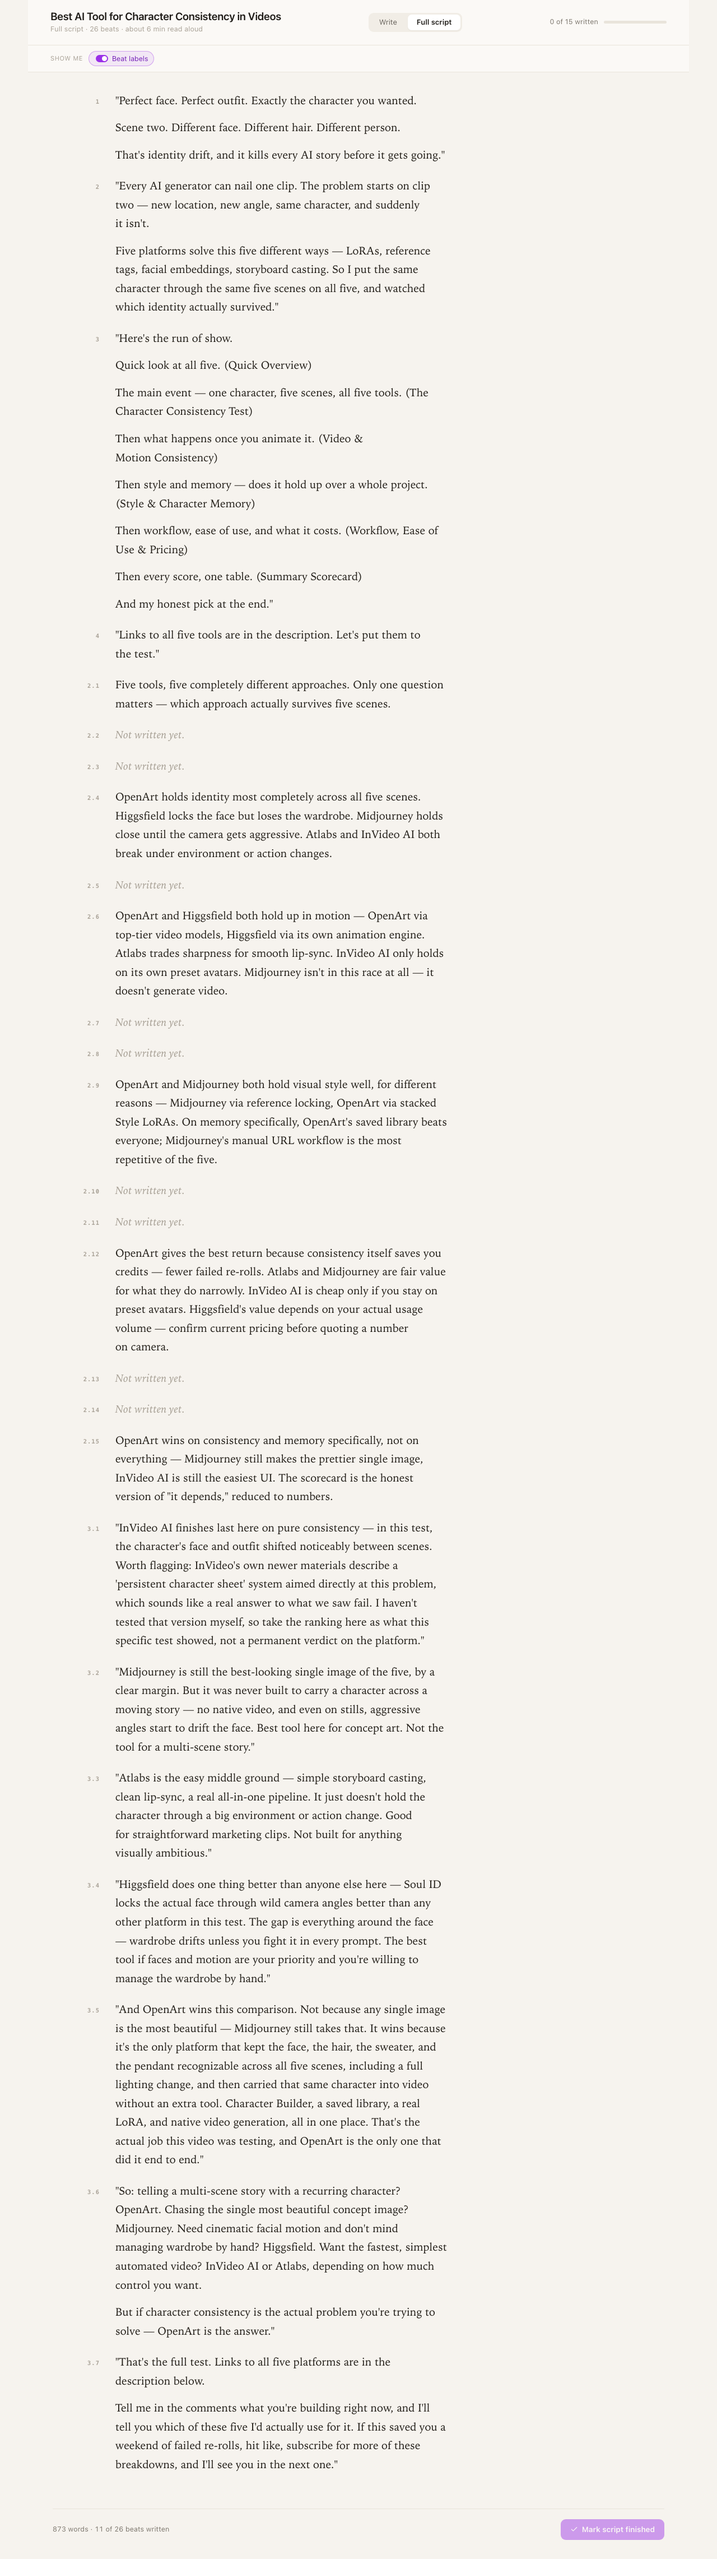
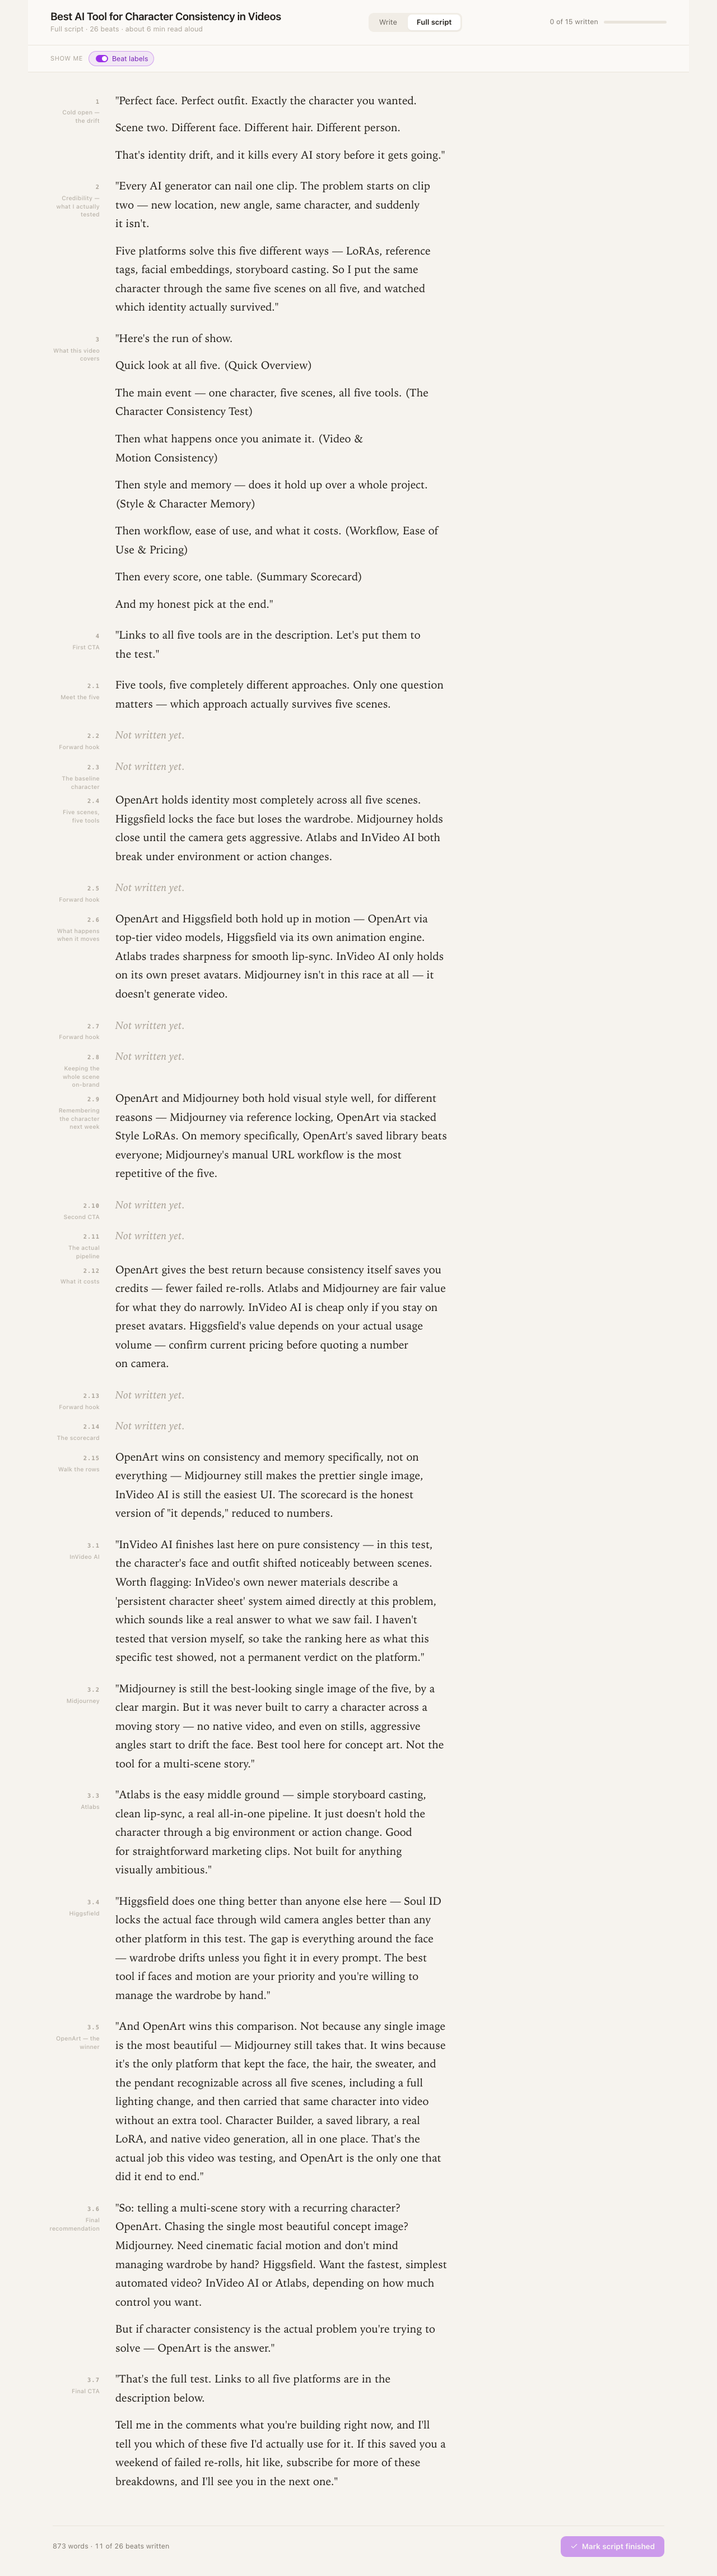
feat(script-desk): beat titles in the margin label

Changed region(s): [[0.1562, 0.0311, 0.625, 0.9643], [0.5, 0.1866, 0.5938, 0.2177], [0.0938, 0.4044, 0.125, 0.4355]]

diff --git a/apps/yt-script-desk/src/components/FullScript.tsx b/apps/yt-script-desk/src/components/FullScript.tsx
@@ -74,12 +74,21 @@ function BeatRows({ beat, doc, beatLabels }: { beat: Beat; doc: VideoDoc; beatLa
   const hasVerdict = Boolean(beat.verdict && beat.verdict.trim().length > 0)
   const isUnwritten = paragraphs.length === 0 && !hasVerdict
   const label = beatLabels ? beat.num : ''
+  const title = beatLabels ? (beat.title ?? '').trim() : ''
+  const inProse = [label, title].filter(Boolean).join(' · ')
 
   return (
     <>
-      <div className="mk">{LABELS_LIVE_IN_THE_MARGIN ? label : ''}</div>
+      <div className="mk">
+        {LABELS_LIVE_IN_THE_MARGIN && label ? (
+          <>
+            <span className="mk-num">{label}</span>
+            {title ? <span className="mk-title">{title}</span> : null}
+          </>
+        ) : null}
+      </div>
       <div className="bd">
-        {!LABELS_LIVE_IN_THE_MARGIN && label && <span className="mk-in-prose">{label} </span>}
+        {!LABELS_LIVE_IN_THE_MARGIN && inProse && <span className="mk-in-prose">{inProse} </span>}
         {isUnwritten ? (
           <p className="not-written">Not written yet.</p>
         ) : (

diff --git a/apps/yt-script-desk/src/styles/fullScript.css b/apps/yt-script-desk/src/styles/fullScript.css
@@ -1,8 +1,11 @@
 /* ---------------------------------------------------------------- full script */
 
 .doc { display: grid; grid-template-columns: 84px 592px; gap: 0 28px; padding: 34px 44px 40px; align-items: start; }
-.mk  { grid-column: 1; text-align: right; font: 600 10.5px/1.9 var(--mono); letter-spacing: 1px;
-       color: var(--faint); padding-top: 9px; }
+.mk  { grid-column: 1; display: flex; flex-direction: column; align-items: flex-end; gap: 2px;
+       text-align: right; padding-top: 9px; }
+.mk-num   { font: 600 10.5px/1.9 var(--mono); letter-spacing: 1px; color: var(--faint); }
+.mk-title { font: 500 10.5px/1.4 var(--sans); letter-spacing: .2px; color: var(--faint);
+            opacity: .8; text-wrap: pretty; }
 .bd  { grid-column: 2; padding-bottom: 22px; }
 .bd p { margin: 0 0 15px; font: 19.5px/1.72 var(--serif); color: var(--paper-ink); letter-spacing: .1px; text-wrap: pretty; }
 .bd p:last-child { margin-bottom: 0; }
